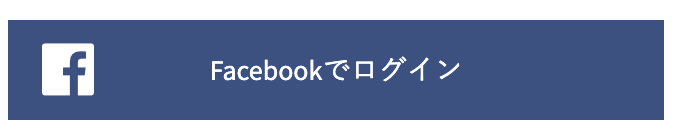
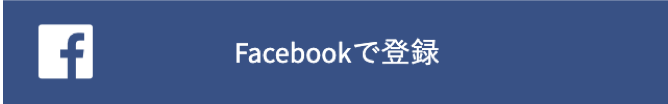
css の一部修正

diff --git a/app/assets/stylesheets/_select_login.scss b/app/assets/stylesheets/_select_login.scss
@@ -8,14 +8,22 @@
   height:60px;
   width:200px;
 }
-#image-style-logo{
-  height:65px;
-  width:340px;
+#image-style-logo-facebook{
+  color: white;
+  margin-top: 10px;
+}
+#image-style-logo-google{
+  color: black;
+  margin-top: 10px;
+}
+#image-style-logo-email{
+  color: black;
+  margin-top: 10px;
 }
 
 .select-content{
   font-family: sans-serif;
-  width: 500px;
+  width: 700px;
   margin: 0 auto;
   &__header{
     height: 100px;  
@@ -33,7 +41,7 @@
     &__body{
       text-align: center;
       height: 300px;
-      padding-top: 30px;
+      padding: 64px;
         &__content-email{
           margin-top:20px; 
           display: block;
@@ -46,6 +54,30 @@
         }
         &__content{
           padding-bottom: 20px;
+          &__email{
+            height: 50px;
+            width:320px;
+            margin: auto;
+            margin-bottom: 16px;
+            padding-top: 17px;
+            background: #eee;
+          }
+          &__facebook{
+            height: 50px;
+            width:320px;
+            background-color: #385185;
+            margin: auto;
+            margin-bottom: 16px;
+            padding-top: 17px;
+          }
+          &__google{
+            height: 50px;
+            width:320px;
+            margin: auto;
+            margin-bottom: 16px;
+            padding-top: 17px;
+            border: #979797 solid 1px;
+            color: #333;          }
         }
     }
   }
